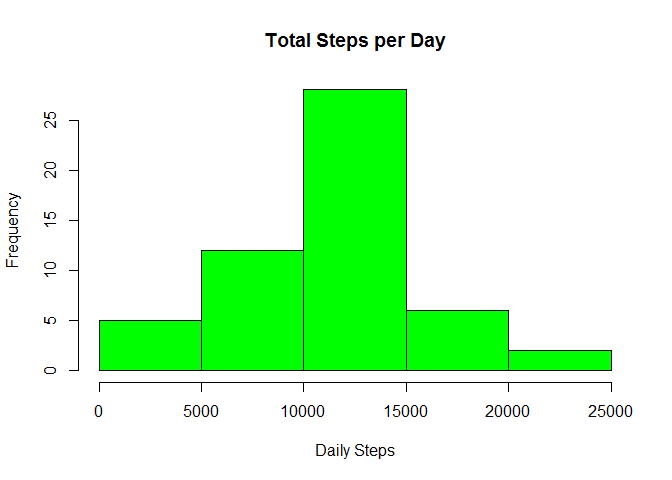
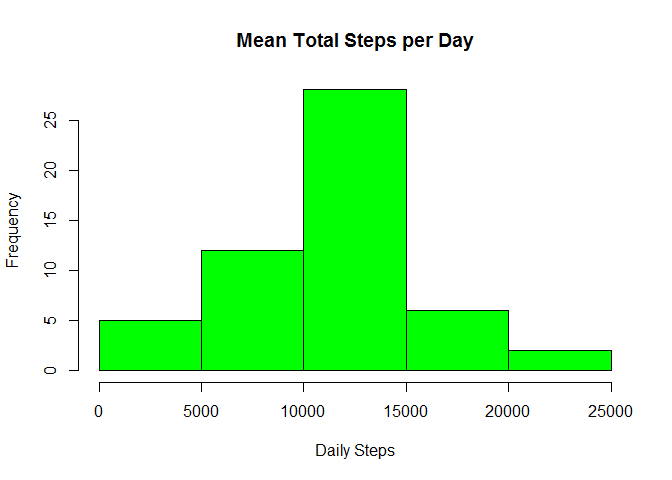
Minor bug fixes

Changed region(s): [[0.3438, 0.0625, 0.7188, 0.125]]

diff --git a/PA1_template.html b/PA1_template.html
@@ -125,7 +125,7 @@ $(document).ready(function () {
 
 <div id="loading-and-preprocessing-the-data" class="section level2">
 <h2>Loading and preprocessing the data</h2>
-<p>Load the data a packages we will be using.</p>
+<p>Load the data and packages.</p>
 <pre class="r"><code>require(dplyr)</code></pre>
 <pre><code>## Loading required package: dplyr</code></pre>
 <pre><code>## 
@@ -149,7 +149,7 @@ str(activityDF)</code></pre>
 ##  $ interval: int  0 5 10 15 20 25 30 35 40 45 ...</code></pre>
 <div id="mark-records-that-have-missing-values-convert-factor-variables" class="section level3">
 <h3>Mark records that have missing values, Convert factor variables</h3>
-<p>We create the variable (column) <strong>StepsAreImputed</strong> which is TRUE if the number of steps is originally missing (NA) and FALSE otherwise. This will allow us to distinguish measured versus imputed variables later in the analysis.</p>
+<p>Create the variable (column) <strong>StepsAreImputed</strong>. For each record, set it equal to TRUE if the number of steps is missing (NA) and FALSE otherwise. This distinguishes measured versus imputed variables later in the analysis.</p>
 <pre class="r"><code>activityDF &lt;- transform(activityDF, StepsAreImputed=is.na(activityDF$steps))
 activityDF$interval &lt;- factor(activityDF$interval)</code></pre>
 </div>
@@ -171,22 +171,19 @@ activityDF &lt;- transform(activityDF, POSIX_DateTime=POSIX_DateTime)
 rm(timeString, theMinute, theHour, theTime)</code></pre>
 </div>
 </div>
-<div id="what-is-mean-total-number-of-steps-taken-per-day" class="section level2">
-<h2>What is mean total number of steps taken per day?</h2>
-<p>We group by date, compute the sum of steps for each date, and then the histogram. The mean and median of the daily totals then follows.</p>
+<div id="what-is-the-mean-total-number-of-steps-per-day" class="section level2">
+<h2>What is the mean total number of steps per day?</h2>
+<p>We group by date, compute the sum of steps for each date, and then plot the histogram. The mean and median of the daily totals then follows.</p>
 <pre class="r"><code>trimmedDF &lt;- subset(activityDF, StepsAreImputed == FALSE)
 trimmedDF &lt;- group_by(trimmedDF, date)
 DailyTotalSteps &lt;- summarize(trimmedDF, DailySteps=sum(steps))
-hist(DailyTotalSteps$DailySteps, xlab=&quot;Daily Steps&quot;, main = &quot;Total Steps per Day&quot;, col = &quot;green&quot;)</code></pre>
[1 lines of base64/hex data omitted]
+hist(DailyTotalSteps$DailySteps, xlab=&quot;Daily Steps&quot;, main = &quot;Mean Total Steps per Day&quot;, col = &quot;green&quot;)</code></pre>
[1 lines of base64/hex data omitted]
 <div id="mean-and-median-steps-per-day" class="section level3">
 <h3>Mean and Median steps per day</h3>
 <pre class="r"><code>MeanDailyTotalSteps &lt;- mean(DailyTotalSteps$DailySteps)
-MedianDailyTotalSteps &lt;- median(DailyTotalSteps$DailySteps)
-print(MeanDailyTotalSteps)</code></pre>
-<pre><code>## [1] 10766.19</code></pre>
-<pre class="r"><code>print(MedianDailyTotalSteps)</code></pre>
-<pre><code>## [1] 10765</code></pre>
+MedianDailyTotalSteps &lt;- median(DailyTotalSteps$DailySteps)</code></pre>
+<p>The mean total steps per day is 10766.19. The median of total steps per day is 10765.00.</p>
 </div>
 </div>
 <div id="what-is-the-average-daily-activity-pattern" class="section level2">
@@ -204,7 +201,12 @@ lines(x=IntervalMean$interval, IntervalMean$MeanStepsByInt, type = &quot;l&quot;
 <pre><code>## [1] 206.1698</code></pre>
 <pre class="r"><code>print(intervalWithMaxSteps &lt;- which(IntervalMean$MeanStepsByInt==maxAverageSteps))</code></pre>
 <pre><code>## [1] 104</code></pre>
-<p>Thus, the maximum of the means is 206.1698113 which is achieved in interval 104.</p>
+<pre class="r"><code>elapsedMinutes &lt;- (intervalWithMaxSteps-1) * 5
+theHour &lt;- elapsedMinutes %/% 60
+theMinutes &lt;- elapsedMinutes %% 60
+theTimeOfDay &lt;- paste(as.character(theHour), as.character(theMinutes), sep = &quot;:&quot;)</code></pre>
+<p>Thus, the maximum of the means is 206.17, which is achieved in interval 104.</p>
+<p>This interval corresponds to the time of day 8:35, which is in twenty-four hour format.</p>
 </div>
 </div>
 <div id="imputing-missing-values" class="section level2">
@@ -212,13 +214,21 @@ lines(x=IntervalMean$interval, IntervalMean$MeanStepsByInt, type = &quot;l&quot;
 <p>The number and percent of records with missing values follows.</p>
 <pre class="r"><code>numMissingValues &lt;- sum(is.na(activityDF$steps))
 percentMissingValues &lt;- round(100 * sum(is.na(activityDF$steps))/nrow(activityDF), digits = 2)</code></pre>
-<p>There are <code>numMissingValues</code> missing values in the <strong>steps</strong> variable, representing <code>percentMissingValues</code> percent of all records.</p>
+<p>There are 2304 missing values in the <strong>steps</strong> variable, representing 13.11 percent of all records.</p>
 <div id="replace-missing-values-by-the-interval-mean" class="section level3">
 <h3>Replace Missing Values by the Interval Mean</h3>
-<p>Our method for imputing missing values is to determine the mean number of steps for each time interval, then replace each NA by the corresponding mean for its interval. Recall that the data <em>without</em> missing values has been extracted and saved in the data frame <strong>trimmedDF</strong>. Thus to fulfill the requirement of creating a new data structure with the missing values filled in is fulfilled by filling in the missing values in the data frame <strong>activityDF</strong>. In fact, that single data frame contains all information in the pair, because for each record, whether the value in <strong>steps</strong> for is measured or imputed is recorded in the variable <strong>StepsAreImputed</strong>.</p>
-<p>Our method to insert the missing values is to add a new column to the data frame that contains the average for the time interval represented by each row. That insertion is accomplished with the <strong>dplyr::merge</strong> function. It is then a simple matter to copy this column over any NA values in the <strong>steps</strong> variable.</p>
+<p>Our method for imputing missing values is to determine the mean number of steps for each time interval, then replace each NA by the corresponding mean for its interval. Recall that the data <em>without</em> missing values has been extracted and saved in the data frame <strong>trimmedDF</strong>. Thus the requirement to create a new data structure with the missing values filled-in is fulfilled by filling in the missing values in the data frame <strong>activityDF</strong>. In fact, that single data frame contains all information in the pair. Whether the value in <strong>steps</strong> is measured or imputed is recorded in the variable <strong>StepsAreImputed</strong>.</p>
+<p>We add a new column to the data frame that contains the average for the time interval represented by each row. That insertion is accomplished with the <strong>dplyr::merge</strong> function. It is then a simple matter to copy this column over any NA values in the <strong>steps</strong> variable.</p>
 <pre class="r"><code>activityDF &lt;- merge(activityDF, IntervalMean, by=&quot;interval&quot;)
 activityDF$steps &lt;- ifelse(is.na(activityDF$steps), activityDF$MeanStepsByInt, activityDF$steps)</code></pre>
+</div>
+<div id="histogram-of-total-number-of-steps-per-day" class="section level3">
+<h3>Histogram of Total Number of Steps per Day</h3>
+<p>Please see the plots at the end of the next subsection.</p>
+</div>
+<div id="mean-and-median-total-number-of-steps-per-day" class="section level3">
+<h3>Mean and Median Total Number of Steps per Day</h3>
+<p>Please read the narrative in subsection, “Effect of Including Imputed Values …” These values are reported there, in context.</p>
 </div>
 <div id="compare-steps-per-day-with-and-without-imputed-values" class="section level3">
 <h3>Compare Steps per Day With and Without Imputed Values</h3>
@@ -257,15 +267,15 @@ hist(DailyTotalSteps.withImputed$DailySteps, xlab=&quot;Daily Steps&quot;, ylim=
 <pre class="r"><code>meanOfSteps.noImputed &lt;- mean(DailyTotalSteps$DailySteps)
 meanOfSteps.withImputed &lt;- mean(DailyTotalSteps.withImputed$DailySteps)
 theDifference &lt;- meanOfSteps.withImputed - meanOfSteps.noImputed</code></pre>
-<p>The mean number of steps per day, ignoring missing values is 10766.19. If we include the imputed values we obtain an overall mean of 10766.19, and a computed difference of 0.000000. There is no significant impact on the overall mean number of steps per day.</p>
+<p>The <strong>mean number of steps per day</strong>, ignoring missing values is 10766.19. If we include the imputed values we obtain an overall mean of 10766.19, and a computed difference of 0.000000. There is no significant impact on the overall mean number of steps per day.</p>
 <p>In this case, the no-effect outcome could not be predicted from knowing the strategy for imputing values alone. However, if it were also known that the distribution of missing values was uniform (or at least symmetric), then this result could be predicted. In other words, if every time interval has the same number of missing values, and each missing value is replaced by the mean for that interval, then there is no change to the overall mean.</p>
 <p>If we used the overall mean for all missing values (and we did not), then the no-effect outcome would have been certain.</p>
-<p>Medians don’t work quite the same as means, so we might expect some impact on the median by imputing values.</p>
+<p><strong>Medians</strong> don’t work quite the same as means, so we might expect some impact on the median by imputing values.</p>
 <pre class="r"><code>MedianDailyTotalSteps.noImputed &lt;- median(DailyTotalSteps$DailySteps)
 MedianDailyTotalSteps.withImputed &lt;- median(DailyTotalSteps.withImputed$DailySteps)
 theDifference &lt;- MedianDailyTotalSteps.withImputed - MedianDailyTotalSteps.noImputed </code></pre>
 <p>If the subdistributions (with respect to time interval) are roughly symmetric, the impact will be small. That is the case here.</p>
-<p>The median number of total daily steps without imputed values is 10765.00. When imputed values are included, the median becomes 10766.19. The computed difference is 1.188679. There is an effect, but it is very small.</p>
+<p>The <strong>median number of total daily steps</strong> without imputed values is 10765.00. <strong>When imputed values are included, the median becomes</strong> 10766.19. The computed difference is 1.188679. There is an effect, but it is very small.</p>
 </div>
 </div>
 <div id="differences-in-activity-patterns-between-weekdays-and-weekends" class="section level2">

diff --git a/PA1_template.md b/PA1_template.md
@@ -5,7 +5,7 @@ Thomas Bradford Sprague
 
 
 ## Loading and preprocessing the data
-Load the data a packages we will be using.
+Load the data and packages.
 
 
 ```r
@@ -62,7 +62,7 @@ str(activityDF)
 ##  $ interval: int  0 5 10 15 20 25 30 35 40 45 ...
 ```
 ### Mark records that have missing values, Convert factor variables 
-We create the variable (column) **StepsAreImputed** which is TRUE if the number of steps is originally missing (NA) and FALSE otherwise. This will allow us to distinguish measured versus imputed variables later in the analysis.
+Create the variable (column) **StepsAreImputed**. For each record, set it equal to TRUE if the number of steps is missing (NA) and FALSE otherwise. This distinguishes measured versus imputed variables later in the analysis.
 
 
 ```r
@@ -90,15 +90,15 @@ activityDF <- transform(activityDF, POSIX_DateTime=POSIX_DateTime)
 rm(timeString, theMinute, theHour, theTime)
 ```
 
-## What is mean total number of steps taken per day?
-We group by date, compute the sum of steps for each date, and then the histogram. The mean and median of the daily totals then follows.
+## What is the mean total number of steps per day?
+We group by date, compute the sum of steps for each date, and then plot the histogram. The mean and median of the daily totals then follows.
 
 
 ```r
 trimmedDF <- subset(activityDF, StepsAreImputed == FALSE)
 trimmedDF <- group_by(trimmedDF, date)
 DailyTotalSteps <- summarize(trimmedDF, DailySteps=sum(steps))
-hist(DailyTotalSteps$DailySteps, xlab="Daily Steps", main = "Total Steps per Day", col = "green")
+hist(DailyTotalSteps$DailySteps, xlab="Daily Steps", main = "Mean Total Steps per Day", col = "green")
 ```
 
 ![](PA1_template_files/figure-html/histogram of steps per day-1.png)<!-- -->
@@ -108,20 +108,12 @@ hist(DailyTotalSteps$DailySteps, xlab="Daily Steps", main = "Total Steps per Day
 ```r
 MeanDailyTotalSteps <- mean(DailyTotalSteps$DailySteps)
 MedianDailyTotalSteps <- median(DailyTotalSteps$DailySteps)
-print(MeanDailyTotalSteps)
 ```
 
-```
-## [1] 10766.19
-```
-
-```r
-print(MedianDailyTotalSteps)
-```
-
-```
-## [1] 10765
-```
+The mean total steps per day is 
+10766.19. 
+The median of total steps per day is
+10765.00.
 
 ## What is the average daily activity pattern?
 We compute the average number of steps in each time interval and make a time-series plot. Note that missing values are still ignored.
@@ -155,8 +147,17 @@ print(intervalWithMaxSteps <- which(IntervalMean$MeanStepsByInt==maxAverageSteps
 ```
 ## [1] 104
 ```
-Thus, the maximum of the means is 206.1698113 
+
+```r
+elapsedMinutes <- (intervalWithMaxSteps-1) * 5
+theHour <- elapsedMinutes %/% 60
+theMinutes <- elapsedMinutes %% 60
+theTimeOfDay <- paste(as.character(theHour), as.character(theMinutes), sep = ":")
+```
+Thus, the maximum of the means is 206.17, 
 which is achieved in interval 104.
+
+This interval corresponds to the time of day 8:35, which is in twenty-four hour format.
 
 ## Imputing missing values
 The number and percent of records with missing values follows.
@@ -167,18 +168,25 @@ numMissingValues <- sum(is.na(activityDF$steps))
 percentMissingValues <- round(100 * sum(is.na(activityDF$steps))/nrow(activityDF), digits = 2)
 ```
 
-There are `numMissingValues` missing values in the **steps** variable, representing `percentMissingValues` percent of all records.
+There are 2304 missing values in the **steps** variable, representing 13.11 percent of all records.
 
 ### Replace Missing Values by the Interval Mean
-Our method for imputing missing values is to determine the mean number of steps for each time interval, then replace each NA by the corresponding mean for its interval. Recall that the data *without* missing values has been extracted and saved in the data frame **trimmedDF**. Thus to fulfill the requirement of creating a new data structure with the missing values filled in is fulfilled by filling in the missing values in the data frame **activityDF**. In fact, that single data frame contains all information in the pair, because for each record, whether the value in **steps** for is measured or imputed is recorded in the variable **StepsAreImputed**.
+Our method for imputing missing values is to determine the mean number of steps for each time interval, then replace each NA by the corresponding mean for its interval. Recall that the data *without* missing values has been extracted and saved in the data frame **trimmedDF**. Thus the requirement to create a new data structure with the missing values filled-in is fulfilled by filling in the missing values in the data frame **activityDF**. In fact, that single data frame contains all information in the pair. Whether the value in **steps** is measured or imputed is recorded in the variable **StepsAreImputed**.
 
-Our method to insert the missing values is to add a new column to the data frame that contains the average for the time interval represented by each row. That insertion is accomplished with the **dplyr::merge** function. It is then a simple matter to copy this column over any NA values in the **steps** variable. 
+We add a new column to the data frame that contains the average for the time interval represented by each row. That insertion is accomplished with the **dplyr::merge** function. It is then a simple matter to copy this column over any NA values in the **steps** variable. 
 
 
 ```r
 activityDF <- merge(activityDF, IntervalMean, by="interval")
 activityDF$steps <- ifelse(is.na(activityDF$steps), activityDF$MeanStepsByInt, activityDF$steps)
 ```
+
+### Histogram of Total Number of Steps per Day
+Please see the plots at the end of the next subsection.
+
+### Mean and Median Total Number of Steps per Day
+Please read the narrative in subsection, "Effect of Including Imputed Values ..." These values are
+reported there, in context.
 
 ### Compare Steps per Day With and Without Imputed Values
 For convenience o{f comparison, we repeat the histogram of steps per day ignoring missing values, then follow immediately with the histogram obtained by including imputed values.
@@ -226,7 +234,7 @@ meanOfSteps.withImputed <- mean(DailyTotalSteps.withImputed$DailySteps)
 theDifference <- meanOfSteps.withImputed - meanOfSteps.noImputed
 ```
 
-The mean number of steps per day, ignoring missing values is 10766.19. 
+The **mean number of steps per day**, ignoring missing values is 10766.19. 
 If we include the imputed values we obtain an overall mean of 
 10766.19, and a computed difference of 
 0.000000. 
@@ -236,7 +244,7 @@ In this case, the no-effect outcome could not be predicted from knowing the stra
 
 If we used the overall mean for all missing values (and we did not), then the no-effect outcome would have been certain.
 
-Medians don't work quite the same as means, so we might expect some impact on the median by imputing values. 
+**Medians** don't work quite the same as means, so we might expect some impact on the median by imputing values. 
 
 ```r
 MedianDailyTotalSteps.noImputed <- median(DailyTotalSteps$DailySteps)
@@ -246,9 +254,9 @@ theDifference <- MedianDailyTotalSteps.withImputed - MedianDailyTotalSteps.noImp
 
 If the subdistributions (with respect to time interval) are roughly symmetric, the impact will be small. That is the case here.  
 
-The median number of total daily steps without imputed values is 
+The **median number of total daily steps** without imputed values is 
 10765.00. 
-When imputed values are included, the median becomes 
+**When imputed values are included, the median becomes** 
 10766.19.
 The computed difference is 
 1.188679. 
